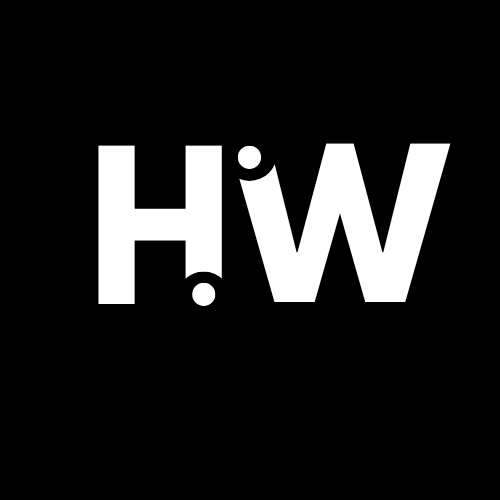
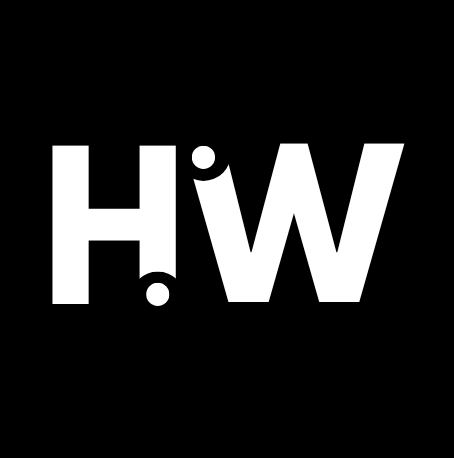
fix font and theme

Changed region(s): [[0.0925, 0.2751, 0.9251, 0.6725], [0.8326, 0.4279, 0.8634, 0.5197]]

diff --git a/index.html b/index.html
@@ -12,7 +12,7 @@
 		<link rel="preconnect" href="https://fonts.googleapis.com" />
 		<link rel="preconnect" href="https://fonts.gstatic.com" crossorigin />
 		<link
-			href="https://fonts.googleapis.com/css2?family=IBM+Plex+Mono:ital,wght@0,100;0,200;0,300;0,400;0,500;0,600;0,700;1,100;1,200;1,300;1,400;1,500;1,600;1,700&family=Inter:ital,opsz,wght@0,14..32,100..900;1,14..32,100..900&family=Nova+Square&family=Poppins:ital,wght@0,100;0,200;0,300;0,400;0,500;0,600;0,700;0,800;0,900;1,100;1,200;1,300;1,400;1,500;1,600;1,700;1,800;1,900&display=swap"
+			href="https://fonts.googleapis.com/css2?family=Lato:ital,wght@0,100;0,300;0,400;0,700;0,900;1,100;1,300;1,400;1,700;1,900&display=swap"
 			rel="stylesheet"
 		/>
 	</head>
@@ -23,7 +23,7 @@
 			>
 				<a class="block text-teal-600" href="#">
 					<span class="sr-only">Home</span>
-					<img src="./assets/HW.png" alt="logo" class="h-10 w-10">
+					<img src="./assets/HW.png" alt="logo" class="h-10 w-10 rounded-full" />
 				</a>
 
 				<div class="flex items-center justify-end md:justify-between">
@@ -36,13 +36,17 @@
 			</div>
 		</header>
 		<div class="min-h-fit text-white rounded-lg mx-auto">
-			<h1 class="text-6xl font-bold mb-4 text-center title my-4">
-				Rock Paper Scissors
-			</h1>
-			<div class="grid grid-cols-2 my-10 gap-20">
+			<div class="mb-4 space-y-4">
+				<h1 class="text-7xl font-extrabold text-center title tracking-wider">Hand Wars</h1>
+				<p class="text-xl text-muted-foreground text-center text-neutral-900/60">
+					Ready to Rock Paper Scissors
+				</p>
+			</div>
+			<div class="grid grid-cols-2 my-10 gap-20 text-black font-medium">
 				<div class="flex justify-start items-center rounded-lg">
-					<div class="text-center space-y-5">
+					<div class="text-center space-y-3">
 						<p class="text-xl">You</p>
+						<p class="text-lg font-bold">Score: <span id="user-score">0</span></p>
 						<img
 							id="user-image"
 							src="./assets/img/rock_user.png"
@@ -53,6 +57,7 @@
 				<div class="flex justify-end items-center rounded-lg">
 					<div class="text-center space-y-5">
 						<p class="text-xl">Opponent</p>
+						<p class="text-xl">Computer Score: <span id="computer-score">0</span></p>
 						<img
 							id="computer-image"
 							src="./assets/img/rock_comp.png"
@@ -61,10 +66,6 @@
 					</div>
 				</div>
 			</div>
-		</div>
-		<div class="flex justify-center gap-4 mt-4 text-white">
-			<p class="text-xl">Your Score: <span id="user-score">0</span></p>
-			<p class="text-xl">Computer Score: <span id="computer-score">0</span></p>
 		</div>
 
 		<p

diff --git a/style.css b/style.css
@@ -1,5 +1,5 @@
 body {
-	font-family: "Poppins", serif;
+	font-family: "Lato", serif;
 	font-weight: 400;
 	font-style: normal;
 }
@@ -7,21 +7,21 @@ body {
 .title {
 	font-weight: bold;
 	color: white;
-	-webkit-text-stroke: 2px #000000;
+	-webkit-text-stroke: 2px #ff5f00;
 }
 
 .bg-custom {
-	background-image: url("./assets/img/bg-custom-2.svg");
+	background-image: url("./assets/img/bg-custom-3.svg");
 	background-size: cover;
 	background-repeat: no-repeat;
 }
 
 .btn-custom {
-	background-color: #f0f3ff;
-	border: 2px solid #15F5BA;
+	background-color: #002379;
+	border: 2px solid #ff5f00;
 	border-radius: 30px;
-	box-shadow: #15F5BA 4px 4px 0 0;
-	color: #000000;
+	box-shadow: #ff5f00 4px 4px 0 0;
+	color: #fff;
 	cursor: pointer;
 	display: inline-block;
 	font-weight: 600;
@@ -36,11 +36,11 @@ body {
 }
 
 .btn-custom:hover {
-	background-color: #fff;
+	background-color: #020f32;
 }
 
 .btn-custom:active {
-	box-shadow: #15F5BA 2px 2px 0 0;
+	box-shadow: #ff5f00 2px 2px 0 0;
 	transform: translate(2px, 2px);
 }
 
